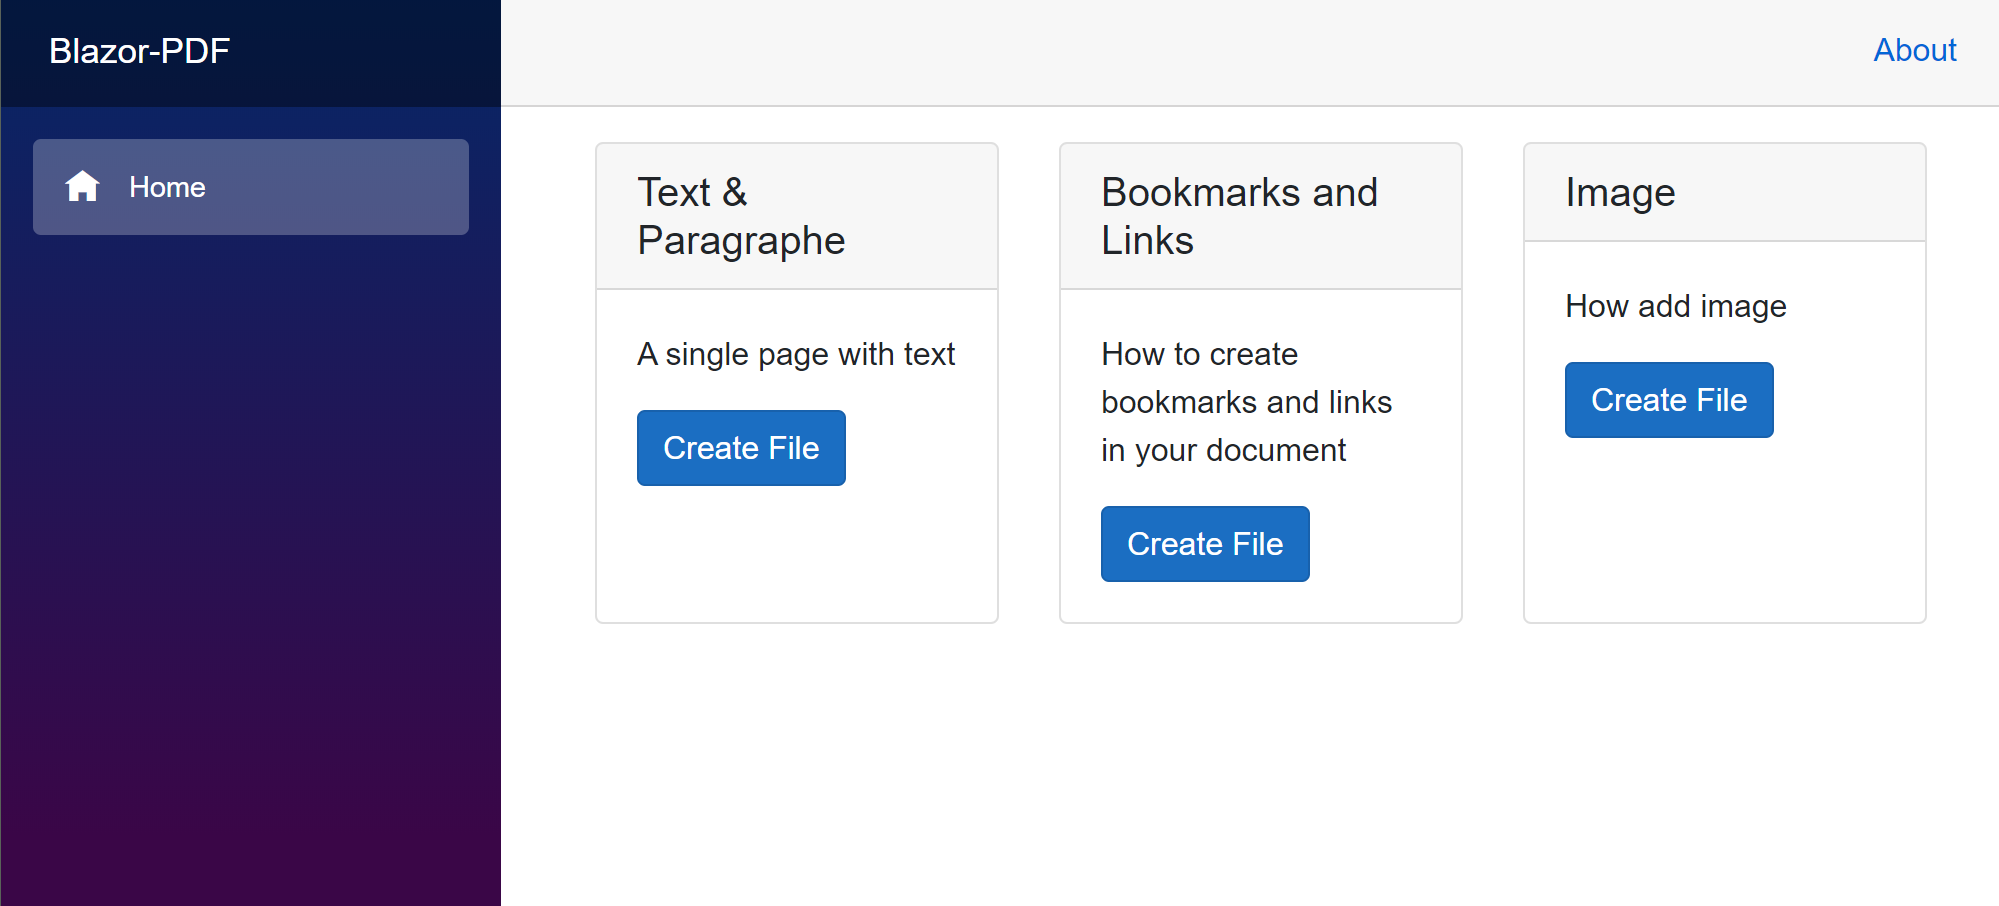
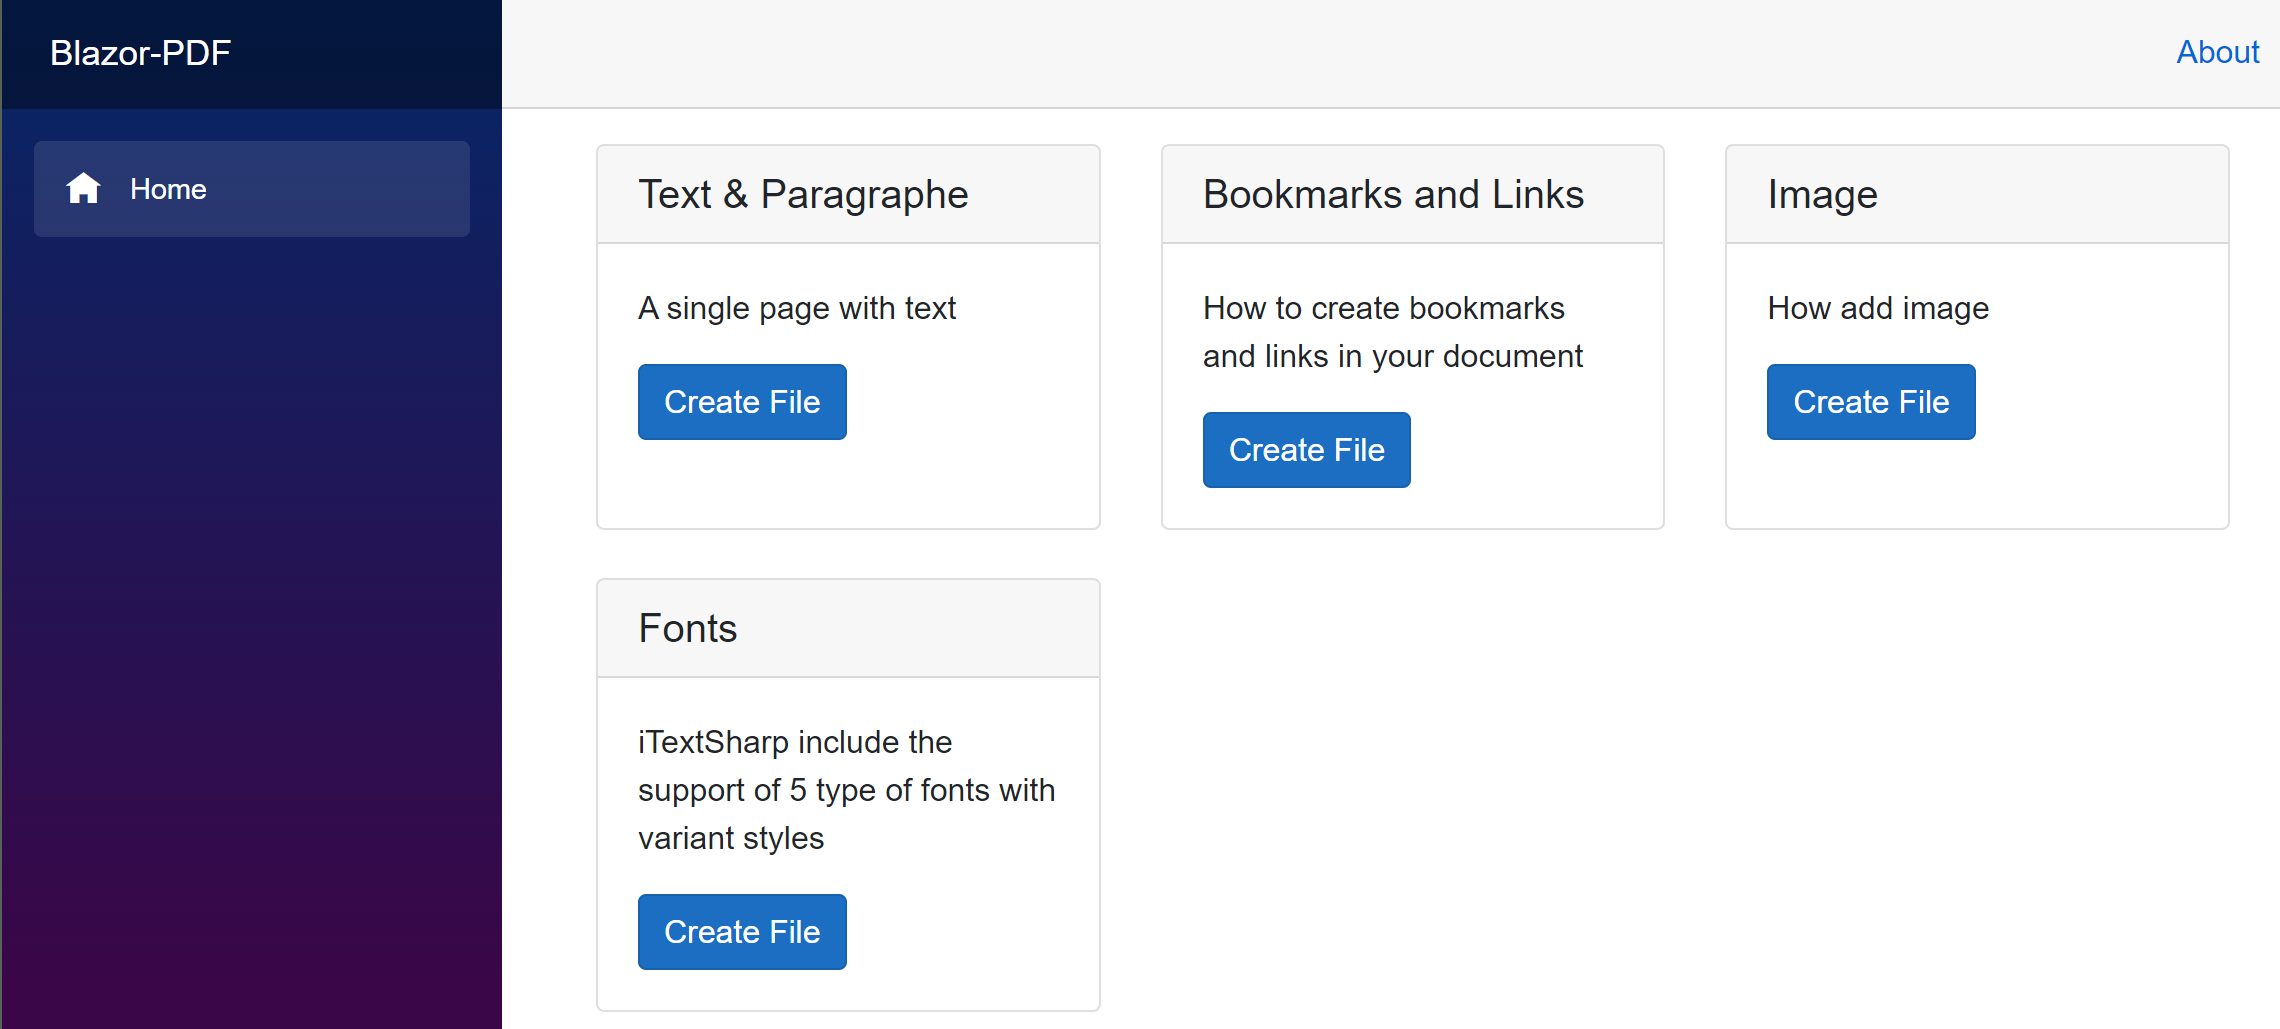
v0.4

diff --git a/Blazor-PDF/Blazor-PDF/PDF/page4.cs b/Blazor-PDF/Blazor-PDF/PDF/page4.cs
@@ -35,34 +35,73 @@ namespace Blazor_PDF.PDF
 
             BaseFont bfCourier= BaseFont.CreateFont(BaseFont.COURIER, encoding: BaseFont.CP1252, embedded: false);
             Examples(pdf, bfCourier);
+
+
+            title = new Paragraph("Helvetica")
+            {
+                SpacingBefore = 18f,
+                SpacingAfter = 9f
+            };
+            pdf.Add(title);
+
+            BaseFont bfHelvetica = BaseFont.CreateFont(BaseFont.HELVETICA, encoding: BaseFont.CP1252, embedded: false);
+            Examples(pdf, bfHelvetica);
+
+
+            title = new Paragraph("Symbol")
+            {
+                SpacingBefore = 18f,
+                SpacingAfter = 9f
+            };
+            pdf.Add(title);
+
+            BaseFont bSymbol = BaseFont.CreateFont(BaseFont.SYMBOL, encoding: BaseFont.CP1252, embedded: false);
+            Examples(pdf, bSymbol);
+
+
+            title = new Paragraph("ZapfDingBats®")
+            {
+                SpacingBefore = 18f,
+                SpacingAfter = 9f
+            };
+            pdf.Add(title);
+
+            BaseFont bZapfDingBats = BaseFont.CreateFont(BaseFont.ZAPFDINGBATS, encoding: BaseFont.CP1252, embedded: false);
+            Examples(pdf, bZapfDingBats);
         }
 
 
         private static void Examples(Document pdf, BaseFont basefont)
         {
             string text = "0123456789 ABDCEFGHIJKLMNOPQRSTXYWZ abcdefghijklmnopqrstuvwxyz @&*$€";
+            float fontSize = 12;
 
-            Font font = new Font(basefont, 12, Font.NORMAL, BaseColor.Black);
+            Font font = new Font(basefont, fontSize, Font.NORMAL, BaseColor.Black);
             var paragraph = new Paragraph(text, font);
             pdf.Add(paragraph);
 
-            font = new Font(basefont, 12, Font.BOLD, BaseColor.Black);
+
+            if (basefont.PostscriptFontName == BaseFont.SYMBOL) return;
+            if (basefont.PostscriptFontName == BaseFont.ZAPFDINGBATS) return;
+
+
+            font = new Font(basefont, fontSize, Font.BOLD, BaseColor.Black);
             paragraph = new Paragraph(text, font);
             pdf.Add(paragraph);
 
-            font = new Font(basefont, 12, Font.ITALIC, BaseColor.Black);
+            font = new Font(basefont, fontSize, Font.ITALIC, BaseColor.Black);
             paragraph = new Paragraph(text, font);
             pdf.Add(paragraph);
 
-            font = new Font(basefont, 12, Font.UNDERLINE, BaseColor.Black);
+            font = new Font(basefont, fontSize, Font.UNDERLINE, BaseColor.Black);
             paragraph = new Paragraph(text, font);
             pdf.Add(paragraph);
 
-            font = new Font(basefont, 12, Font.BOLD + Font.ITALIC, BaseColor.Black);
+            font = new Font(basefont, fontSize, Font.BOLD + Font.ITALIC, BaseColor.Black);
             paragraph = new Paragraph(text, font);
             pdf.Add(paragraph);
 
-            font = new Font(basefont, 12, Font.STRIKETHRU, BaseColor.Black);
+            font = new Font(basefont, fontSize, Font.STRIKETHRU, BaseColor.Black);
             paragraph = new Paragraph(text, font);
             pdf.Add(paragraph);
         }

diff --git a/Blazor-PDF/Blazor-PDF/PDF/report.cs b/Blazor-PDF/Blazor-PDF/PDF/report.cs
@@ -30,7 +30,7 @@ namespace Blazor_PDF.PDF
             float margeLeft = 1.5f;
             float margeRight= 1.5f;
             float margeTop = 1.0f;
-            float margeBottom = 15.0f;
+            float margeBottom = 1.0f;
 
             Document pdf = new Document(
                                     PageSize.A4,
